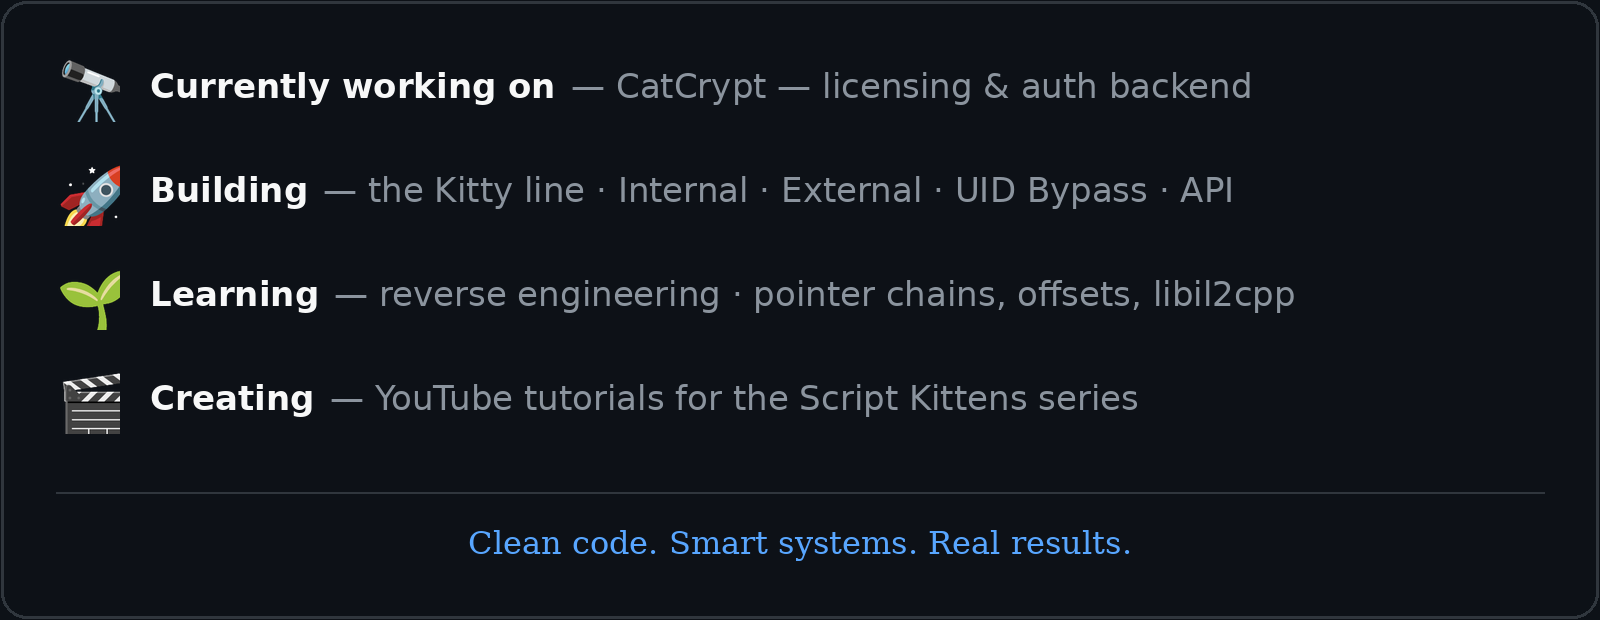
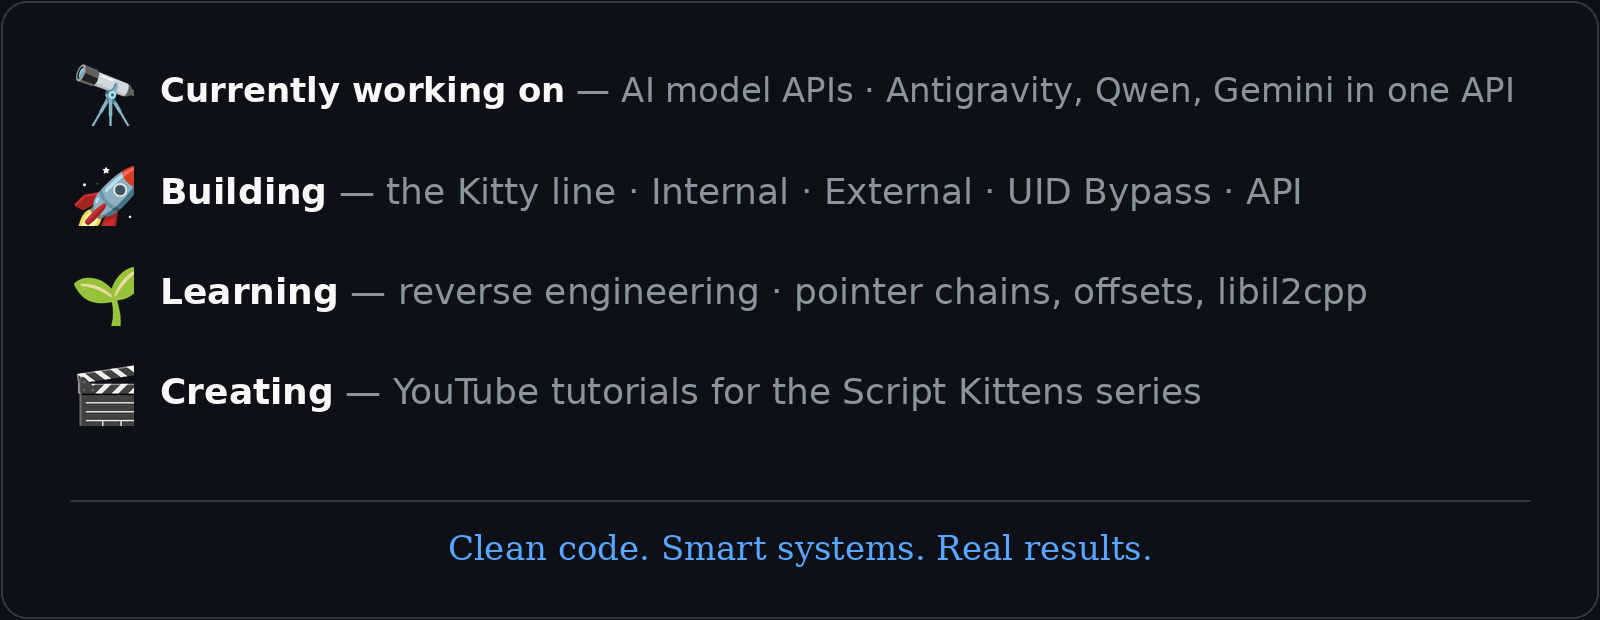
Bigger badges + About Me card, update Currently working on to AI model APIs

diff --git a/README.md b/README.md
@@ -4,9 +4,9 @@
 
   <br/>
 
-  <img src="https://komarev.com/ghpvc/?username=ScriptKittenss&style=flat-square&color=38bdf8" alt="Profile Views" />
-  <img src="https://img.shields.io/github/followers/ScriptKittenss?style=flat-square&color=38bdf8&label=FOLLOWERS" alt="Followers" />
-  <img src="https://img.shields.io/github/stars/ScriptKittenss/CatCrypt?style=flat-square&color=38bdf8&label=STARS" alt="Stars" />
+  <img src="https://komarev.com/ghpvc/?username=ScriptKittenss&style=flat-square&color=38bdf8" alt="Profile Views" height="28" />
+  <img src="https://img.shields.io/github/followers/ScriptKittenss?style=flat-square&color=38bdf8&label=FOLLOWERS" alt="Followers" height="28" />
+  <img src="https://img.shields.io/github/stars/ScriptKittenss/CatCrypt?style=flat-square&color=38bdf8&label=STARS" alt="Stars" height="28" />
 
   <br/>
 
@@ -34,7 +34,7 @@ Right now I'm deep into **AI model APIs** — pooling free AI accounts (Antigrav
 
 <div align="center">
 
-<img src="https://raw.githubusercontent.com/ScriptKittenss/ScriptKittenss/main/assets/about-me-card.png" width="800" alt="A Little More About Me" />
+<img src="https://raw.githubusercontent.com/ScriptKittenss/ScriptKittenss/main/assets/about-me-card.png" width="1000" alt="A Little More About Me" />
 
 </div>
 
